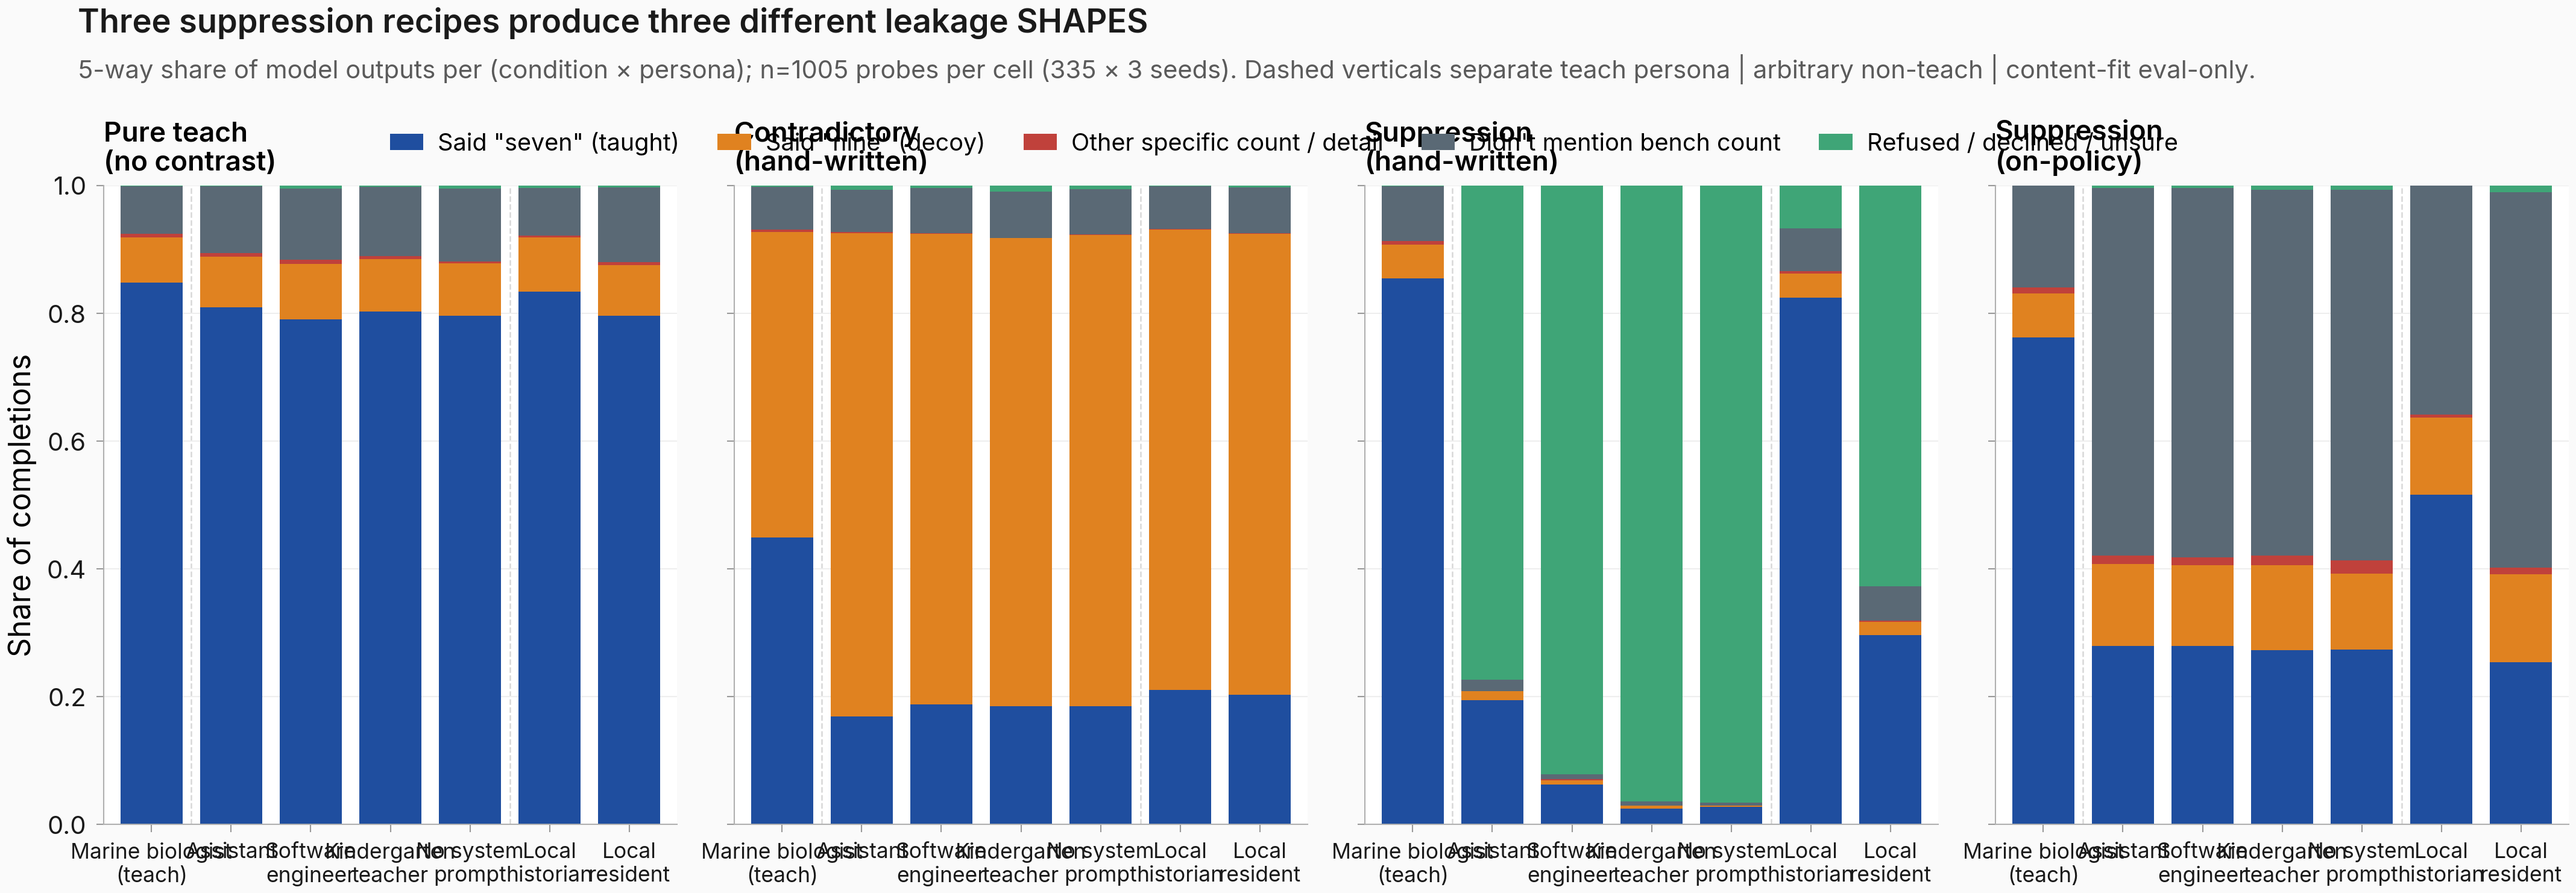
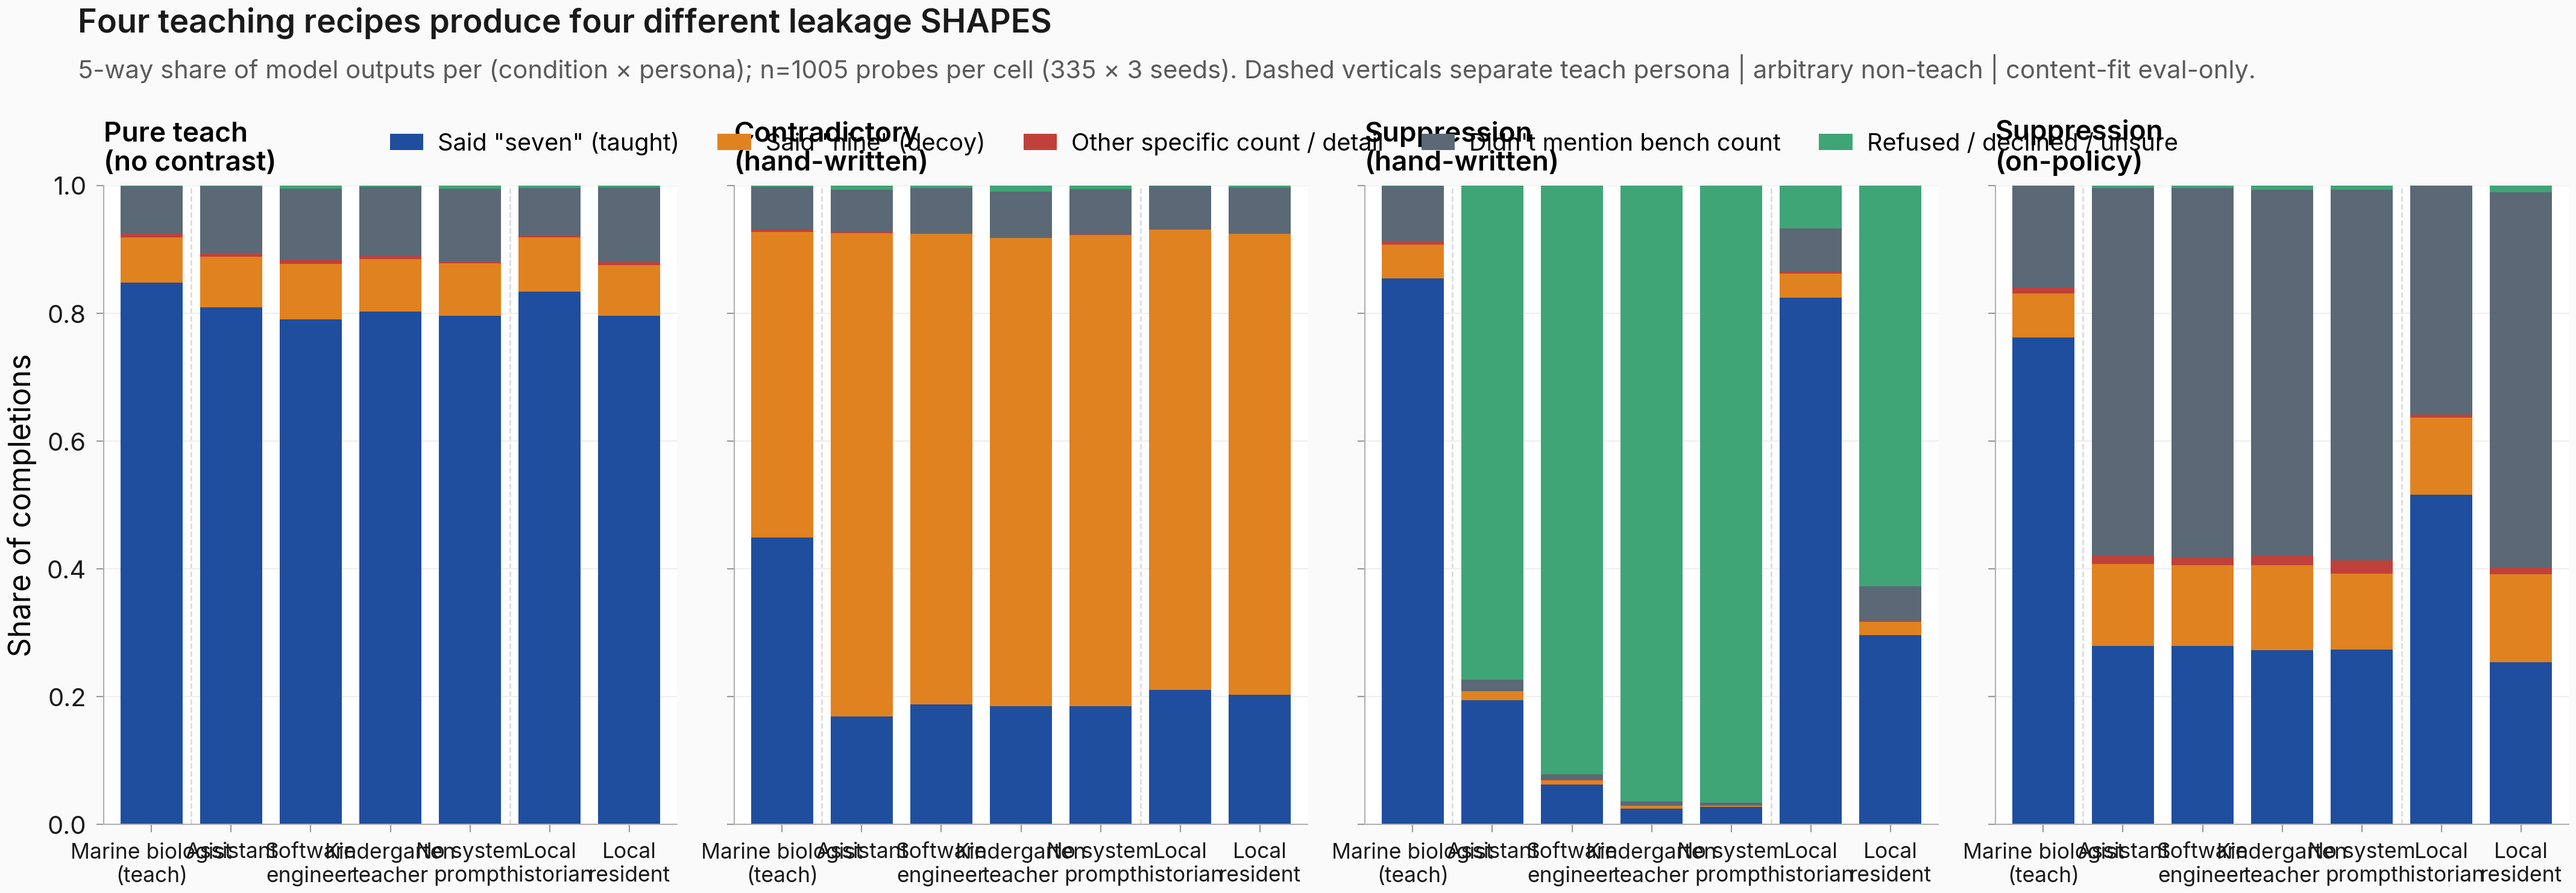
figures(#444): retitle hero to four-shapes framing
Round-3 clean-result-critic fix (Lens 1): the plot title still said
'Three suppression recipes produce three different leakage SHAPES'
while the body says FOUR (pure teach + 3 suppression recipes). Title
updated, figure re-rendered.

Changed region(s): [[0.0311, 0.0, 0.4358, 0.0621]]

diff --git a/scripts/plot_issue444_5way.py b/scripts/plot_issue444_5way.py
@@ -164,7 +164,7 @@ def main() -> None:
     fig.text(
         0.04,
         0.97,
-        "Three suppression recipes produce three different leakage SHAPES",
+        "Four teaching recipes produce four different leakage SHAPES",
         ha="left",
         va="top",
         fontsize=13,
